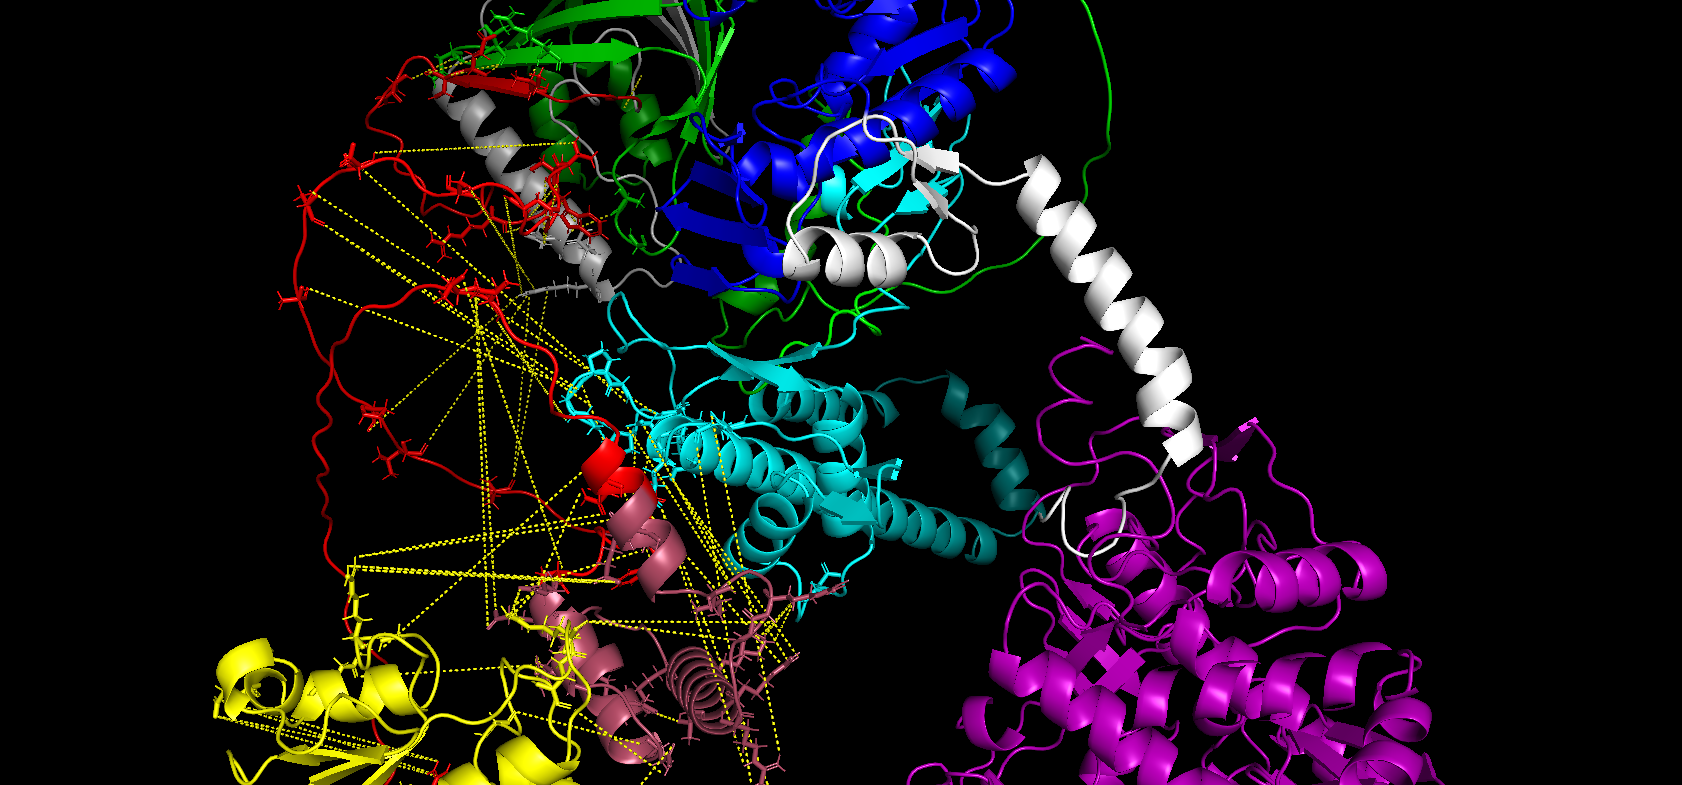
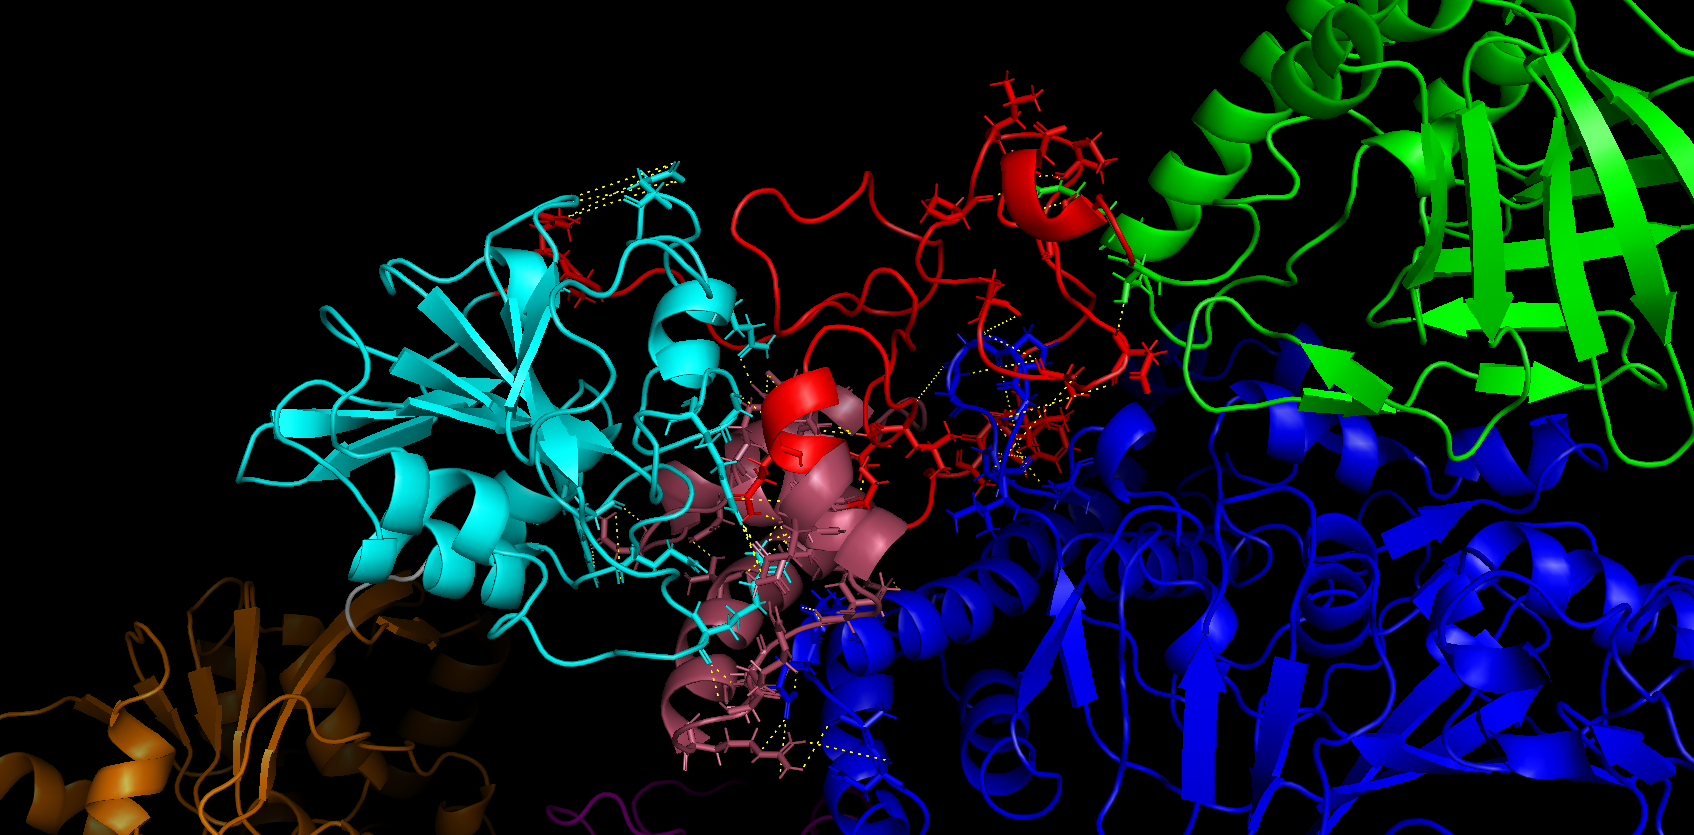
updated README

diff --git a/README.md b/README.md
@@ -26,52 +26,55 @@ The basic usage is:
 ```shell
 conda activate pymol_contacts_md
 
-./pymol_contacts_md.py --prefix results/contacts --structure data/JQ679013_RPS17_ORF1_0.pse \
-data/hydrogen-bonds_JQ679013_RPS17_ORF1.csv
+./pymol_contacts_md.py --prefix results/sample-X --domains data/sample-X_domains.csv \
+--structure data/sample-X_cluster.pdb  data/hydrogen-bonds_sample-X.csv
 
 conda deactivate
 ```
-This will produce a the `results/contacts.pse` file that can be opened with [PyMol](https://github.com/schrodinger/pymol-open-source),
-adding 81 contacts from 55 pairs of residues.
+This will produce a the `results/sample-X.pse` file that can be opened with [PyMol](https://github.com/schrodinger/pymol-open-source),
+adding 61 contacts from 42 pairs of residues.
 
-The persistent contacts during the Molecular Dynamics simulation between the atoms of different residues are added:
+The persistent contacts during the Molecular Dynamics simulation between the atoms of different residues are added with 
+yellow dots:
 
 ![contacts on the structure file](doc/_static/basic.png)
 
 ## Excluding domains
 
 In the CSV input file, the domains of the second atom can be excluded, column `second partner domain`. If we want to
-exclude the Hinge and the X domain, the command will be:
+exclude the contacts between the PPR and itself and also the PPR and the X domain, the command will be:
 ```shell
 conda activate pymol_contacts_md
 
-./pymol_contacts_md.py --prefix results/contacts_no-hinge-xdomain --exclude-domains Hinge "X domain" \
---structure data/JQ679013_RPS17_ORF1_0.pse data/hydrogen-bonds_JQ679013_RPS17_ORF1.csv
+./pymol_contacts_md.py --prefix results/sample-X --domains data/sample-X_domains.csv \
+--exclude-domains PPR "Macro Domain" --structure data/sample-X_cluster.pdb  data/hydrogen-bonds_sample-X.csv
 
 conda deactivate
 ```
 
-This will produce a the `results/contacts_no-hinge-xdomain.pse` file that can be opened with
-[PyMol](https://github.com/schrodinger/pymol-open-source), removing 40 contacts being parts of the excluded domains, to
-finally add 41/81 contacts added for 31/55 pairs of residues.
+This will produce a the `results/sample-X.pse` file that can be opened with [PyMol](https://github.com/schrodinger/pymol-open-source), 
+removing 33 contacts being parts of the excluded domains, to finally add 28/61 contacts added for 22/42 pairs of 
+residues:
+
+![contacts on the structure file with the PPR and macro domain excluded](doc/_static/no-PPR-macrodomain.png)
 
 ## Selecting a Region Of Interest (ROI)
 
-A region of interest in the CSV input file can be selected to add only the contacts of the first partner of the contact
-which coordinates are in the targeted region of interest:
+A region of interest in the CSV input file can be selected to add only the residue 1 positions contacts which 
+coordinates are in the targeted region of interest:
 
 Here, we target an insertion which coordinates are amino acid 748 to 806:
 ```shell
 conda activate pymol_contacts_md
 
-./pymol_contacts_md.py --prefix results/contacts_roi-748-806 --roi 748-806 \
---structure data/JQ679013_RPS17_ORF1_0.pse data/hydrogen-bonds_JQ679013_RPS17_ORF1.csv
+./pymol_contacts_md.py --prefix results/sample-X_roi-748-806 --domains data/sample-X_domains.csv \
+--roi 748-806 --structure data/sample-X_cluster.pdb  data/hydrogen-bonds_sample-X.csv
 
 conda deactivate
 ```
 
-This will produce a the `results/contacts_roi-748-806.pse` file that can be opened with
-[PyMol](https://github.com/schrodinger/pymol-open-source), removing 45 contacts which first partner atom is outside the
-region of interest 748 to 806, to finally adding 36/81 contacts added for 22/55 pairs of residues:
+This will produce a the `results/sample-X_roi-748-806.pse` file that can be opened with [PyMol](https://github.com/schrodinger/pymol-open-source), removing 24 
+contacts for which residue 1 position is outside of the region of interest 748 to 806, to finally adding 37/61 contacts 
+for 22/42 pairs of residues:
 
 ![contacts on the structure file](doc/_static/roi-748-806.png)
